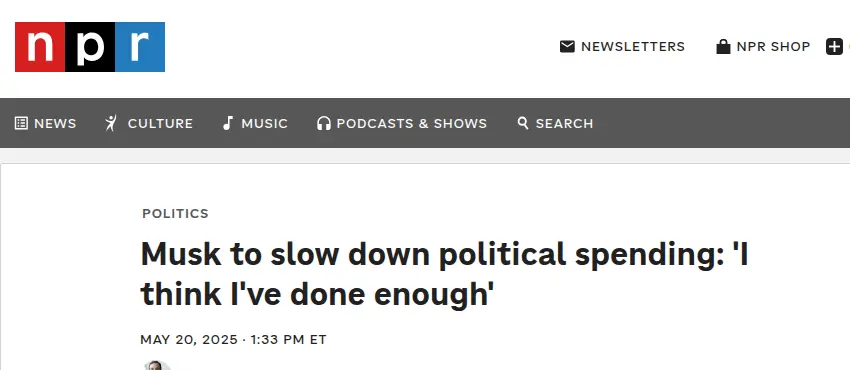
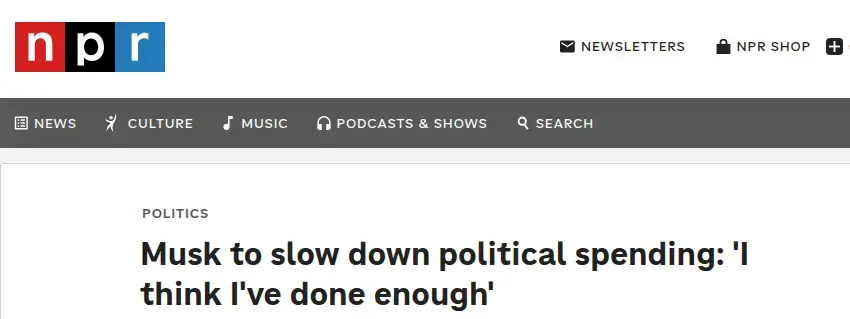
Crop source headline captures and give them more space

diff --git a/index.html b/index.html
@@ -34,7 +34,7 @@
     .source-image img { display:block; width:100%; aspect-ratio:16/9; object-fit:cover; border:1px solid var(--line); }
     .source-image figcaption { margin-top:7px; color:var(--muted); font-size:10px; line-height:1.4; }
     .source-image a { display:block; }
-    .old-reports { margin-top:31px; display:flex; flex-direction:column; gap:20px; }
+    .old-reports { margin-top:40px; display:flex; flex-direction:column; gap:34px; }
     .old-reports figure { margin:0; }
     .old-reports figure > a { display:block; border:1px solid var(--line); }
     .old-reports img { display:block; width:100%; height:auto; }
@@ -45,7 +45,7 @@
     .receipt-kicker { color:var(--red); font-weight:700; font-size:11px; letter-spacing:.15em; text-transform:uppercase; }
     .feature-right p { margin:17px 0 0; font-size:20px; line-height:1.4; letter-spacing:-.025em; }
     .feature-right .sting { margin-top:17px; font-size:15px; line-height:1.48; font-weight:600; color:var(--ink); letter-spacing:0; }
-    .headline-shot { margin:24px 0 0; }
+    .headline-shot { margin:32px 0 0; }
     .headline-shot a { display:block; border:1px solid var(--line); background:#fff; }
     .headline-shot img { display:block; width:100%; height:auto; }
     .headline-shot figcaption { margin-top:8px; color:var(--muted); font-size:11px; }

diff --git a/POST_FORMAT.md b/POST_FORMAT.md
@@ -8,7 +8,7 @@ Use `templates/feature-post.html` as the starting markup, with the shared `.feat
 
 - **Left:** name and category; red date/context kicker above an *exact, dated* original quotation. Check wording and date against its linked primary/original reporting. Add a linked visual of the source (interview still if genuinely from that interview, or a clearly labeled screenshot of the article/quote); do not claim an illustrative still captures the exact spoken instant. Below it, include linked screenshots of reporting from the original period with accurate captions and alt text.
 - **Right:** red “What happened · [date]” kicker; a precisely sourced later outcome or quotation, linked screenshot of an actual current article headline, short editorial passage that does not overclaim motive or erase caveats, and a centered relevant video embed with an external link to the video. Add direct source links for both the old claim and new outcome.
-- Capture actual source pages, never fabricate or re-typeset headlines as screenshots. Store optimized image assets under `assets/`; make each capture link to the page it depicts. If a source is not accessible for a genuine capture, choose a different credible source rather than depicting a fake page.
+- Capture actual source pages, never fabricate or re-typeset headlines as screenshots. Crop headline images to the publisher branding, section, and complete headline only—no byline, article excerpt, or body text beneath it; keep breathing room between captures. A separately labeled screenshot of the exact quote in the article body is allowed as the original-source visual. Store optimized image assets under `assets/`; make each capture link to the page it depicts. If a source is not accessible for a genuine capture, choose a different credible source rather than depicting a fake page.
 - Keep quotes distinct from paraphrases, and distinguish a change in conduct/advice from a retraction of a belief. Verify the video publisher and that it is genuinely about this story. Do not publish an empty or unrelated video placeholder.
 - Before pushing, verify the original and outcome text in the linked articles, check desktop/mobile layout (including no horizontal overflow), all images/links, and the live GitHub Pages build after pushing.
 
